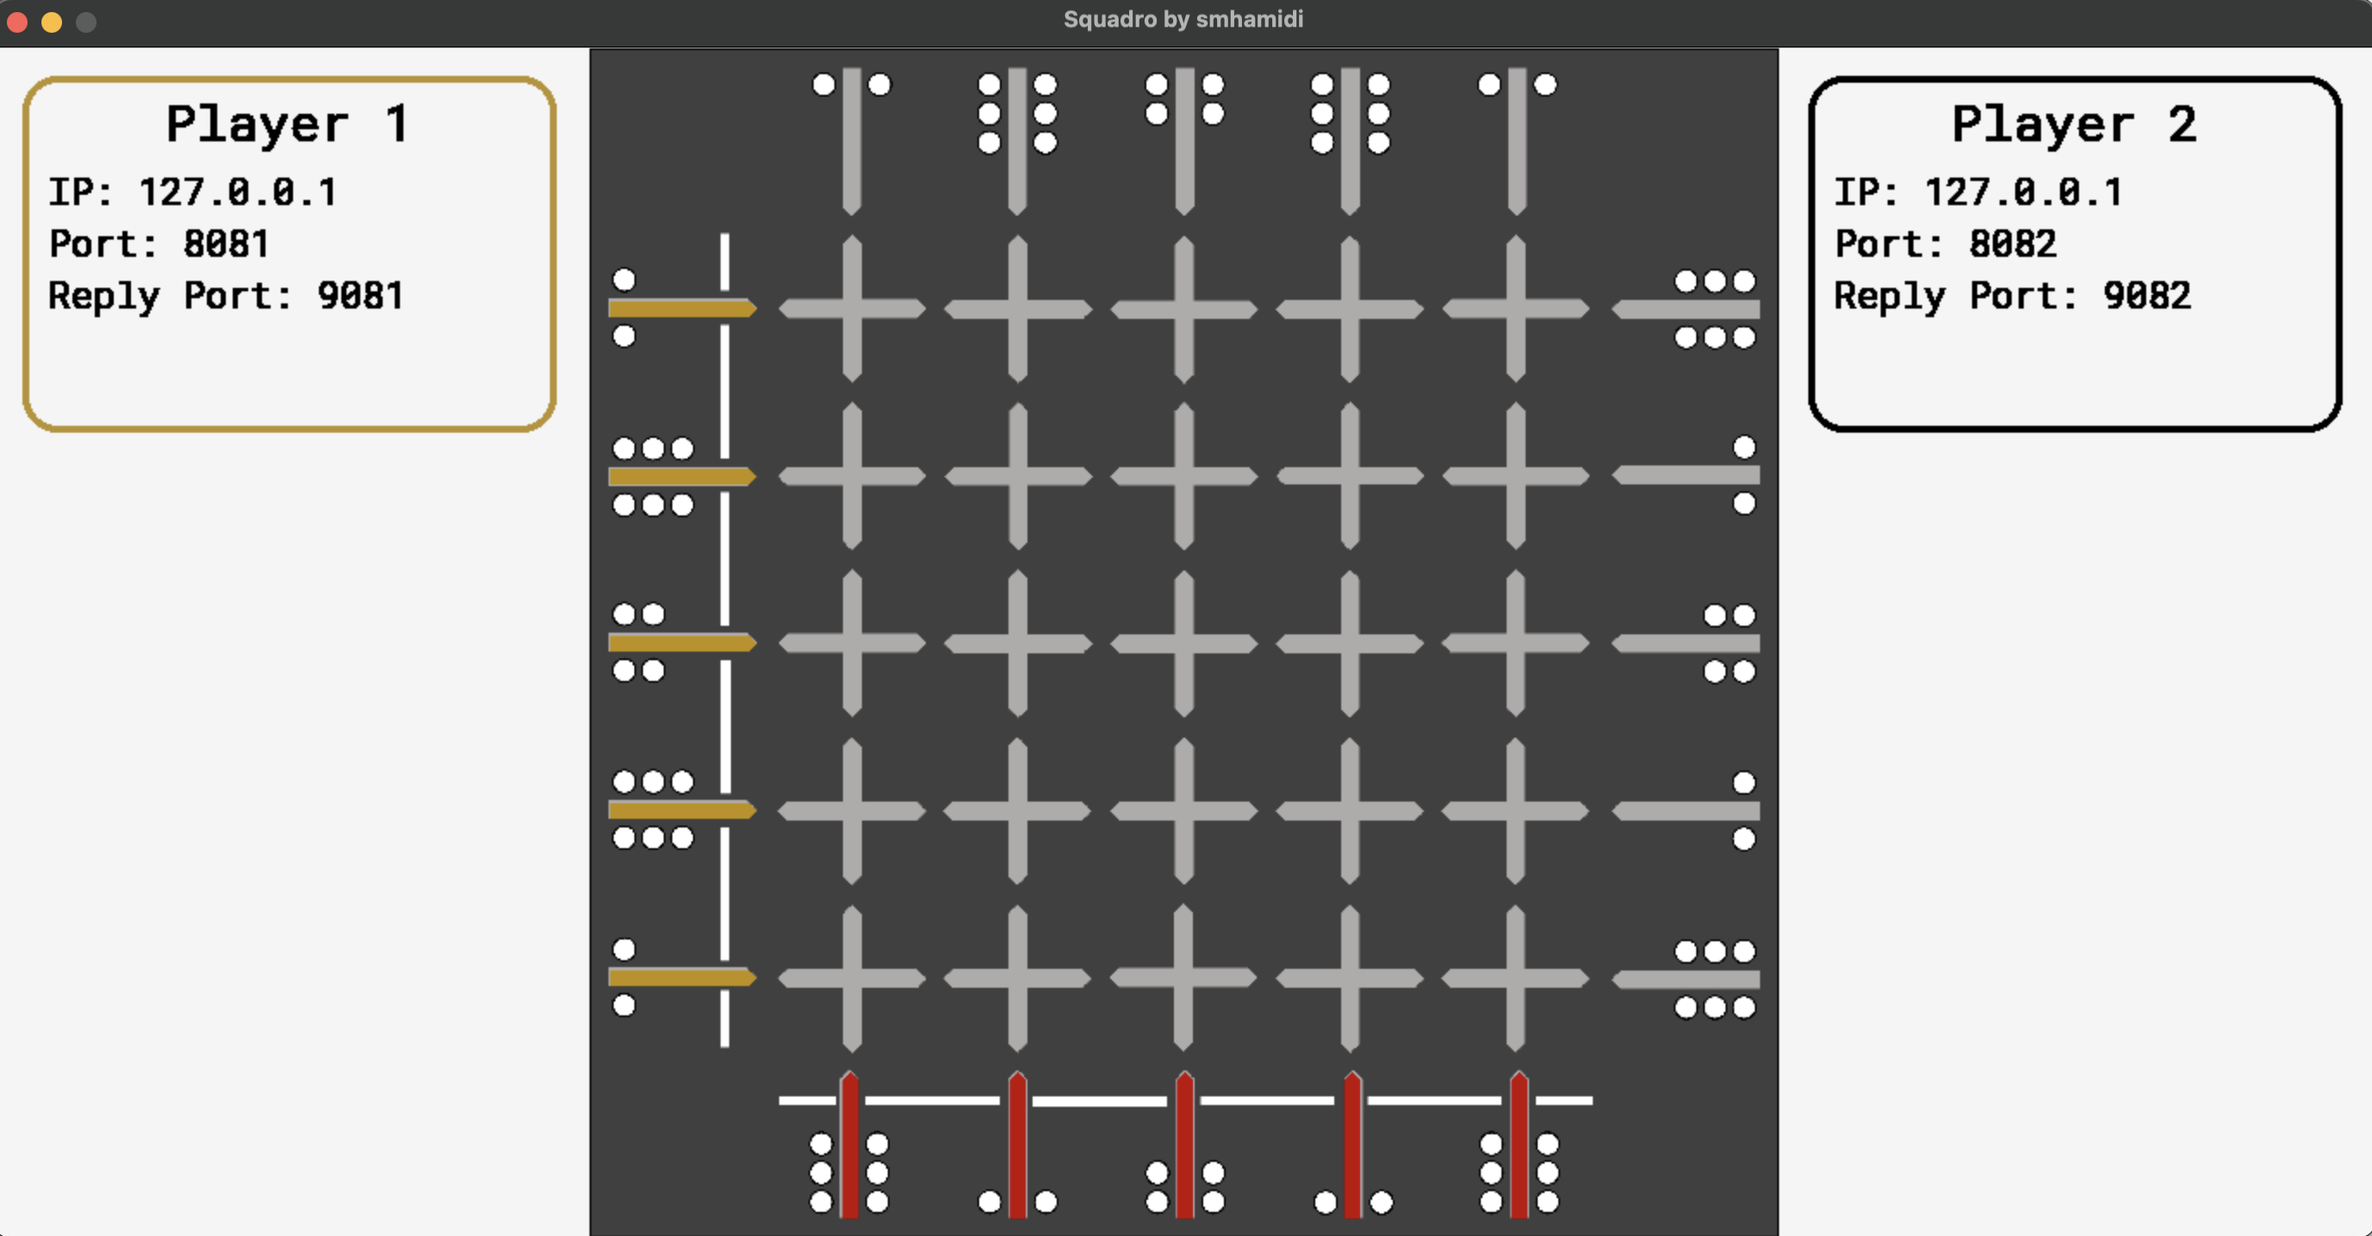
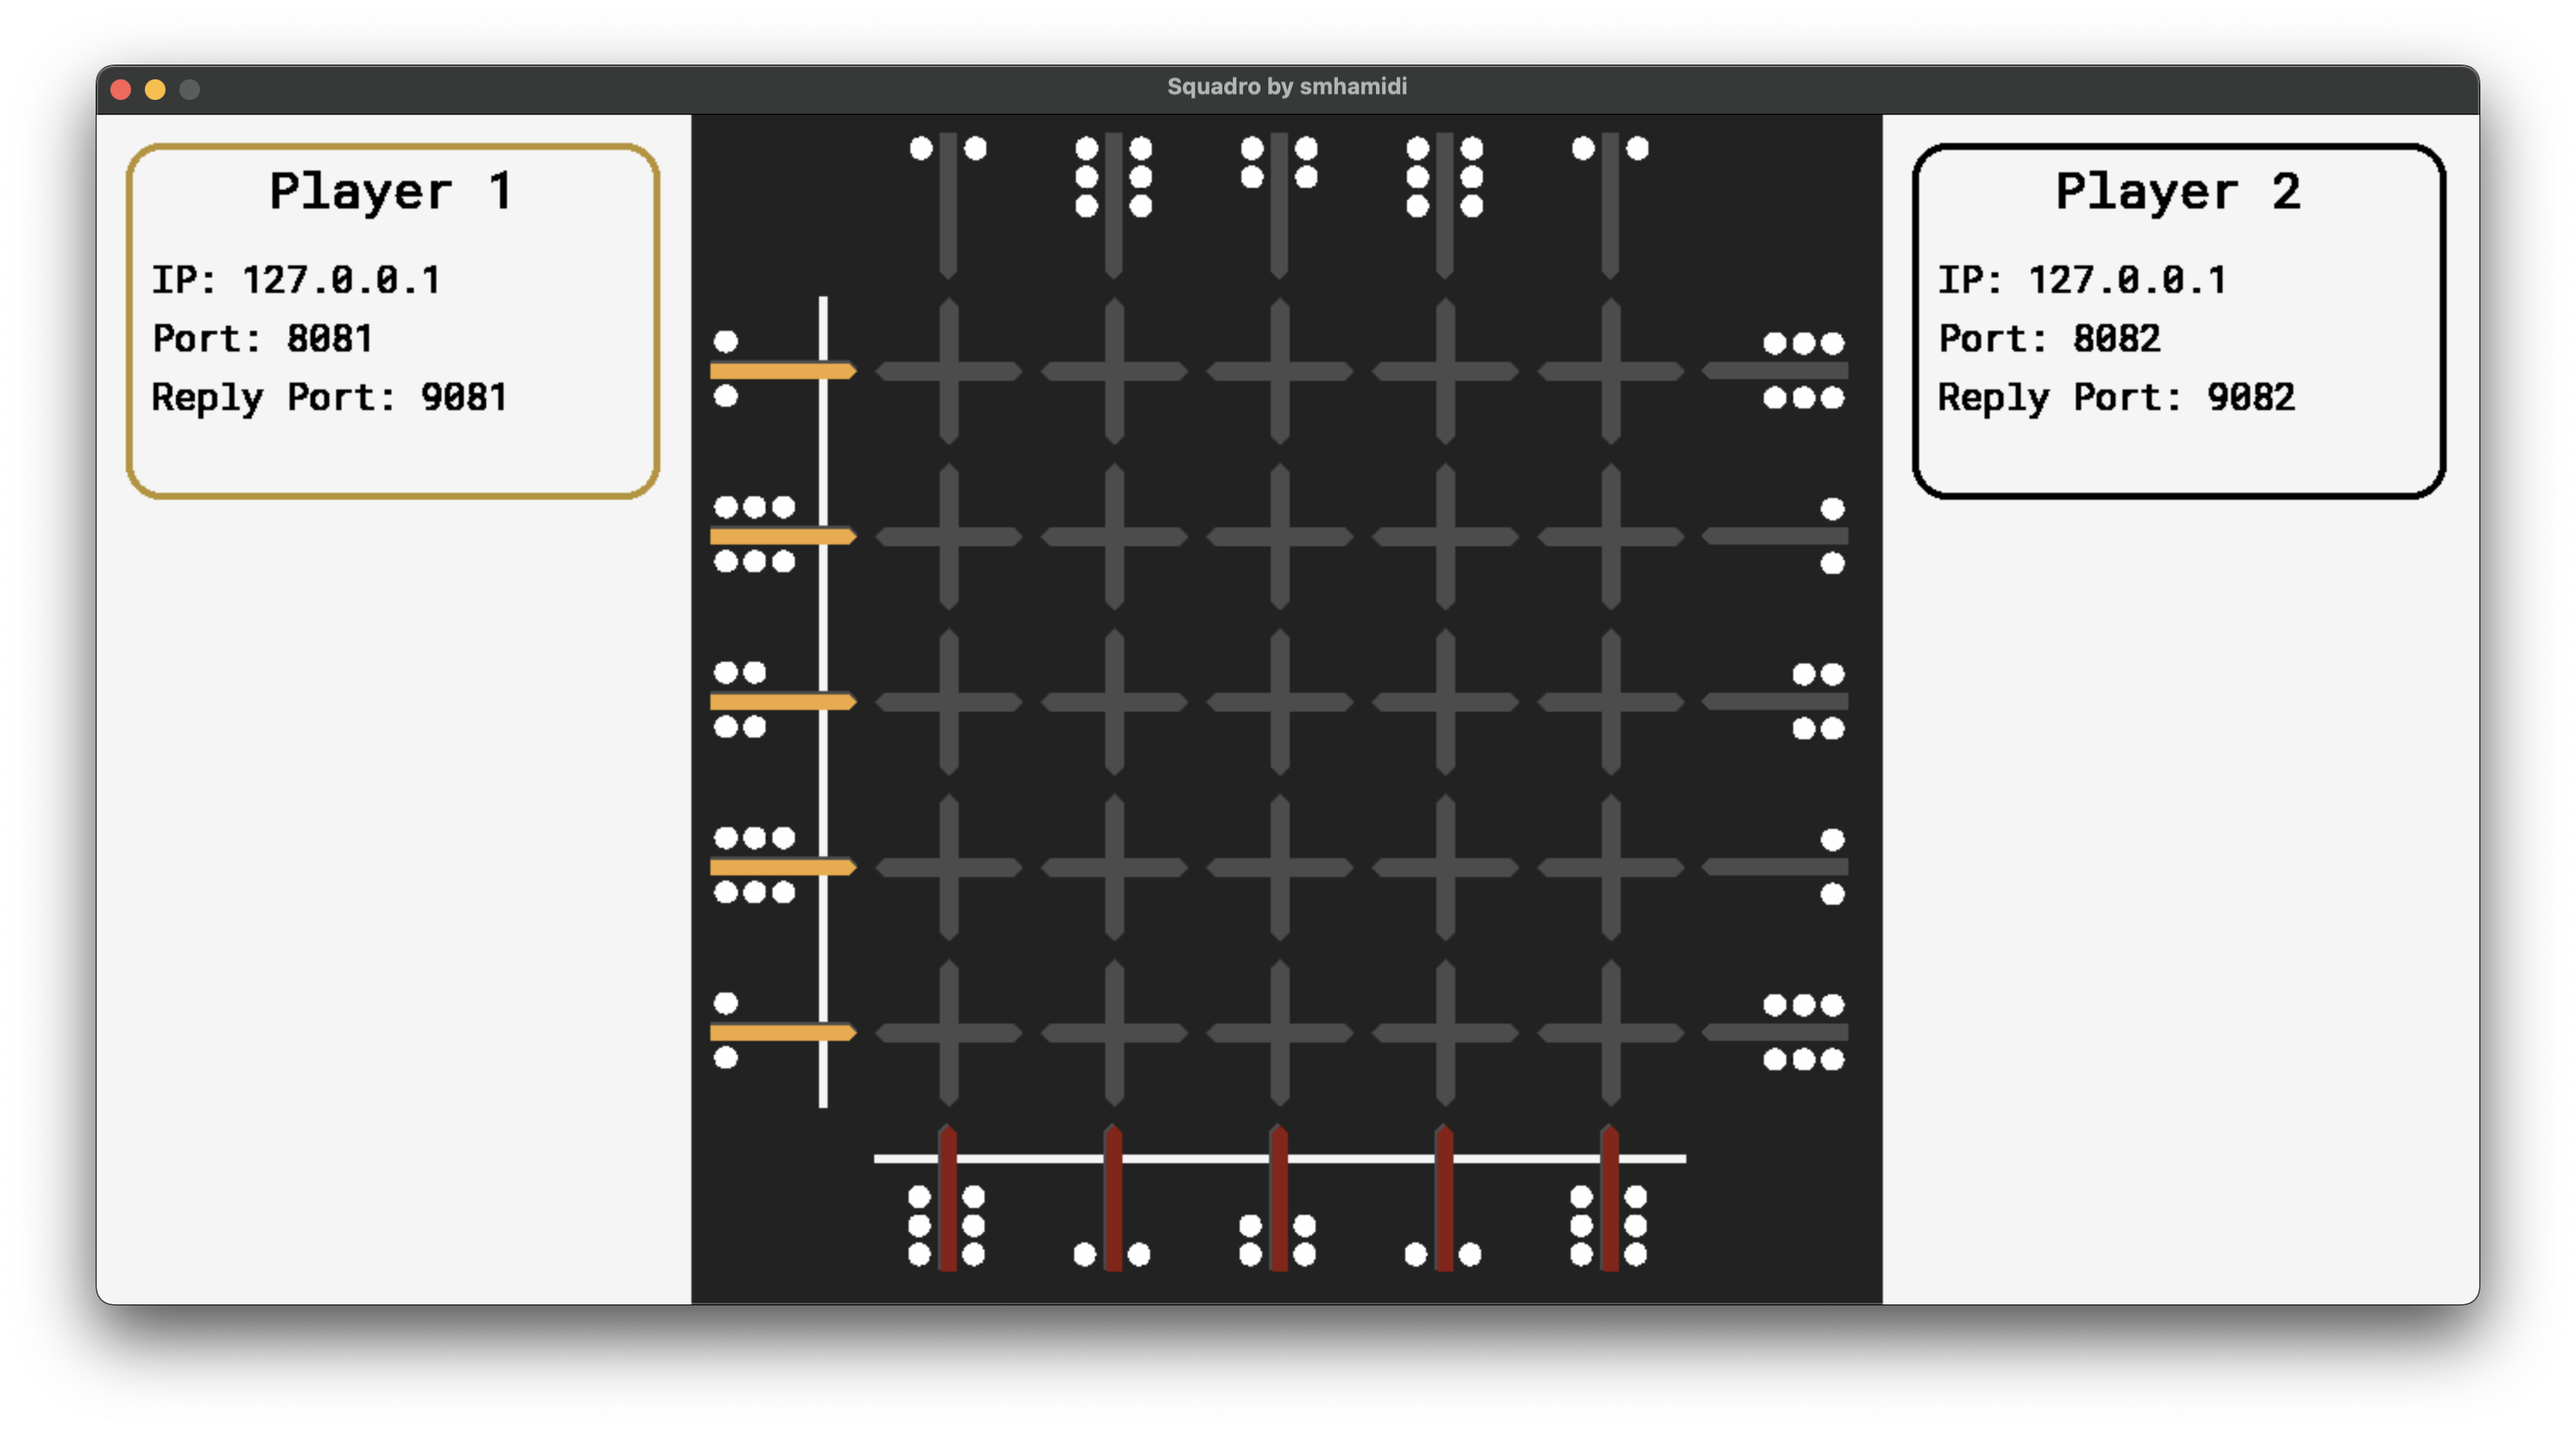
Everything is responsive

diff --git a/utils/components.py b/utils/components.py
@@ -3,26 +3,133 @@ import math
 import os
 
 
-def place_player_pawns(player_number, pawns_position, surface, game_width, game_height):
+def create_main_board(
+    surface, surface_width, surface_height, player1_pawn, player2_pawn
+):
+    draw_start_lines(surface, surface_width, surface_height)
+    place_base_pawns(surface, surface_width, surface_height)
+
+    DIR_PATH = os.path.dirname(__file__)
+    CROSS_IMG = pygame.image.load(os.path.join(DIR_PATH, "..", "assets", "Cross.png"))
+    CROSS_IMG = pygame.transform.scale(
+        CROSS_IMG, (surface_height // 8, surface_height // 8)
+    )
+    SMALL_OFFSET = surface_height // 64
+    BIG_OFFSET = surface_height // 8
+    START_TOP_LEFT = (2 * SMALL_OFFSET + BIG_OFFSET, 2 * SMALL_OFFSET + BIG_OFFSET)
+    for i in range(5):
+        for j in range(5):
+            CROSS_RECT = (
+                START_TOP_LEFT[0] + j * BIG_OFFSET + j * SMALL_OFFSET,
+                START_TOP_LEFT[1] + i * BIG_OFFSET + i * SMALL_OFFSET,
+            )
+            surface.blit(CROSS_IMG, CROSS_RECT)
+
+    place_player_pawns(1, player1_pawn, surface, surface_width, surface_height)
+    place_player_pawns(2, player2_pawn, surface, surface_width, surface_height)
+
+    return surface
+
+
+import os
+import math
+import pygame
+
+
+def place_base_pawns(surface, surface_width, surface_height):
+    # --- Offsets
+    small_off = surface_height // 64
+    big_off = surface_height // 8
+    offset = small_off + big_off
+
+    # --- Load & scale bases
+    dir_path = os.path.dirname(__file__)
+    assets = os.path.join(dir_path, "..", "assets")
+    names = ["Base1.png", "Base2.png", "Base3.png"]
+
+    # load original
+    bases = [pygame.image.load(os.path.join(assets, name)) for name in names]
+
+    # compute target size
+    init_w, init_h = bases[0].get_size()
+    des_h = surface_height // 8
+    des_w = int(des_h * (init_w / init_h))
+
+    scaled = [pygame.transform.scale(b, (des_w, des_h)) for b in bases]
+
+    # --- Precompute common geometry
+    circle_w = (des_w - small_off) / 2
+    start_off = math.floor(1.5 * offset) - circle_w
+
+    # --- Per-side configuration
+    config = {
+        "UP": {"angle": 0, "sequence": [0, 2, 1, 2, 0], "row_delta": 0},
+        "DOWN": {"angle": 180, "sequence": [2, 0, 1, 0, 2], "row_delta": 6 * offset},
+        "RIGHT": {"angle": 270, "sequence": [2, 0, 1, 0, 2], "col_delta": 6 * offset},
+        "LEFT": {"angle": 90, "sequence": [0, 2, 1, 2, 0], "col_delta": 0},
+    }
+
+    # --- Blit them all
+    for side, cfg in config.items():
+        # rotate each base to this side's orientation
+        rotated = [pygame.transform.rotate(img, cfg["angle"]) for img in scaled]
+
+        if side in ("UP", "DOWN"):
+            y = small_off + cfg["row_delta"]
+            for i, idx in enumerate(cfg["sequence"]):
+                x = int(start_off + i * offset)
+                surface.blit(rotated[idx], (x, int(y)))
+
+        else:  # RIGHT or LEFT
+            x = small_off + cfg["col_delta"]
+            for i, idx in enumerate(cfg["sequence"]):
+                y = int(start_off + i * offset)
+                surface.blit(rotated[idx], (int(x), y))
+
+
+def draw_start_lines(surface, surface_width, surface_height):
+    SMALL_OFFSET = surface_height // 64
+    BIG_OFFSET = surface_height // 8
+    OFFSET = SMALL_OFFSET + BIG_OFFSET
+    pygame.draw.line(
+        surface,
+        (245, 245, 245),
+        (BIG_OFFSET - SMALL_OFFSET, OFFSET + SMALL_OFFSET),
+        (BIG_OFFSET - SMALL_OFFSET, 6 * OFFSET),
+        width=SMALL_OFFSET // 2,
+    )
+
+    pygame.draw.line(
+        surface,
+        (245, 245, 245),
+        (OFFSET + SMALL_OFFSET, 6 * OFFSET + 3 * SMALL_OFFSET),
+        (6 * OFFSET, 6 * OFFSET + 3 * SMALL_OFFSET),
+        width=SMALL_OFFSET // 2,
+    )
+
+
+def place_player_pawns(
+    player_number, pawns_position, surface, surface_width, surface_height
+):
+    SMALL_OFFSET = surface_height // 64
+    BIG_OFFSET = surface_height // 8
     if player_number == 1:
         DIR_PATH = os.path.dirname(__file__)
-        IMAGE_PATH = os.path.join(DIR_PATH, "..", "Assets", "Player1.png")
-        PAWN_WIDTH = math.floor(game_width / 16)
-        PAWN_HEIGHT = math.floor(game_width / 128)
+        IMAGE_PATH = os.path.join(DIR_PATH, "..", "assets", "Player1.png")
         START_POSITION = (
-            math.floor(game_width / 4 + PAWN_HEIGHT),
-            math.floor(1.5 * PAWN_HEIGHT + 1.5 * PAWN_WIDTH),
+            SMALL_OFFSET,
+            math.floor(1.5 * BIG_OFFSET + 1.5 * SMALL_OFFSET),
         )
-        OFFSET = math.floor((PAWN_WIDTH + PAWN_HEIGHT) * 1.0205)
+        OFFSET = BIG_OFFSET + SMALL_OFFSET
         for pawn in pawns_position:
             if pawn["position"] == 0 and pawn["return"] == True:
                 continue
             image = pygame.image.load(IMAGE_PATH)
-            image = pygame.transform.scale(image, (PAWN_WIDTH, PAWN_HEIGHT))
+            image = pygame.transform.scale(image, (BIG_OFFSET, SMALL_OFFSET))
             image_rect = image.get_rect()
             image_rect.topleft = (
-                START_POSITION[0] + OFFSET * pawn["position"] + 2,
-                START_POSITION[1] + OFFSET * (5 - pawn["number"]) + 3,
+                START_POSITION[0] + OFFSET * pawn["position"],
+                START_POSITION[1] + OFFSET * (5 - pawn["number"]),
             )
             if pawn["return"] == True or pawn["position"] == 6:
                 image = pygame.transform.rotate(image, 180)
@@ -30,20 +137,18 @@ def place_player_pawns(player_number, pawns_position, surface, game_width, game_
     elif player_number == 2:
         DIR_PATH = os.path.dirname(__file__)
         IMAGE_PATH = os.path.join(DIR_PATH, "..", "Assets", "Player2.png")
-        PAWN_WIDTH = math.floor(game_width / 128)
-        PAWN_HEIGHT = math.floor(game_width / 16)
+        OFFSET = BIG_OFFSET + SMALL_OFFSET
         START_POSITION = (
-            math.floor(game_width / 4 + 1.5 * PAWN_HEIGHT + 1.5 * PAWN_WIDTH) + 3,
-            math.floor(game_height - PAWN_WIDTH) - 1,
+            math.floor(1.5 * OFFSET),
+            6 * OFFSET + SMALL_OFFSET,
         )
-        OFFSET = math.floor((PAWN_WIDTH + PAWN_HEIGHT) * 1.0205)
         for pawn in pawns_position:
             if pawn["position"] == 0 and pawn["return"] == True:
                 continue
             image = pygame.image.load(IMAGE_PATH)
-            image = pygame.transform.scale(image, (PAWN_WIDTH, PAWN_HEIGHT))
+            image = pygame.transform.scale(image, (SMALL_OFFSET, BIG_OFFSET))
             image_rect = image.get_rect()
-            image_rect.bottomleft = (
+            image_rect.topleft = (
                 START_POSITION[0] + OFFSET * (pawn["number"] - 1),
                 START_POSITION[1] - OFFSET * pawn["position"],
             )
@@ -63,8 +168,8 @@ def draw_player_info_box_text(
     PADDING_HORIZONTAL_INFO = (
         15  # Horizontal padding for info text from the box's left edge
     )
-    GAP_TITLE_INFO = 8  # Vertical gap between the title and the first info line
-    GAP_BETWEEN_INFO_LINES = 4  # Extra vertical gap between each info line
+    GAP_TITLE_INFO = 20  # Vertical gap between the title and the first info line
+    GAP_BETWEEN_INFO_LINES = 8  # Extra vertical gap between each info line
 
     # 1. Render and position Title (e.g., "Player 1")
     title_text = f"Player {player_num}"

diff --git a/squadro.py b/squadro.py
@@ -1,5 +1,6 @@
 import pygame
 import math
+from utils.components import create_main_board
 from utils.components import place_player_pawns
 from utils.components import draw_player_info_box_text
 import json
@@ -30,14 +31,6 @@ DISPLAY = pygame.display.set_mode((GAME_WIDTH, GAME_HEIGHT))
 # --- Display Style
 DISPLAY.fill((245, 245, 245))
 print(GAME_WIDTH, GAME_HEIGHT)
-
-
-# Game Board
-MAIN_BOARD = pygame.image.load("./Assets/MainBoard.png")
-MAIN_BOARD = pygame.transform.scale(MAIN_BOARD, (GAME_HEIGHT, GAME_HEIGHT))  # resizing
-# --- Positioning the Board
-MAIN_BOARD_RECT = MAIN_BOARD.get_rect()
-MAIN_BOARD_RECT.topleft = (GAME_HEIGHT // 2, 0)
 
 
 # Info box
@@ -90,14 +83,13 @@ PLAYER2_PAWNS = [
     {"number": 4, "position": 0, "return": False, "f_number": 1, "r_number": 3},
     {"number": 5, "position": 0, "return": False, "f_number": 3, "r_number": 1},
 ]
-PLAYER2_COLOR = (176, 36, 24)
+PLAYER2_COLOR = (155, 28, 49)
 player2_ip = "127.0.0.1"
 player2_port = 8082
 player2_reply_port = 9082
 
 # --- Game states
 running = True
-blit_objs = {"MAIN_BOARD": (MAIN_BOARD, MAIN_BOARD_RECT)}
 current_player = 1
 
 
@@ -359,9 +351,16 @@ while running:
         if event.type == pygame.QUIT:
             running = False
 
-    # Blitting Objects
-    for key, value in blit_objs.items():
-        DISPLAY.blit(value[0], value[1])
+    # Game Board
+    MAIN_BOARD = pygame.Surface((GAME_HEIGHT, GAME_HEIGHT))
+    MAIN_BOARD.fill((34, 34, 34))
+    MAIN_BOARD = create_main_board(
+        MAIN_BOARD, GAME_HEIGHT, GAME_HEIGHT, PLAYER1_PAWNS, PLAYER2_PAWNS
+    )
+    # --- Positioning the Board
+    MAIN_BOARD_RECT = MAIN_BOARD.get_rect()
+    MAIN_BOARD_RECT.topleft = (GAME_HEIGHT // 2, 0)
+    DISPLAY.blit(MAIN_BOARD, MAIN_BOARD_RECT)
 
     # Players info box rects - highlight current player
     player1_box_color = PLAYER1_COLOR if current_player == 1 else (0, 0, 0)
@@ -382,10 +381,6 @@ while running:
         border_radius=INFOBOX_RADIUS,
         width=INFOBOX_THICKNESS,
     )
-
-    # Placing the pawns
-    place_player_pawns(1, PLAYER1_PAWNS, DISPLAY, GAME_WIDTH, GAME_HEIGHT)
-    place_player_pawns(2, PLAYER2_PAWNS, DISPLAY, GAME_WIDTH, GAME_HEIGHT)
 
     draw_player_info_box_text(
         DISPLAY,
